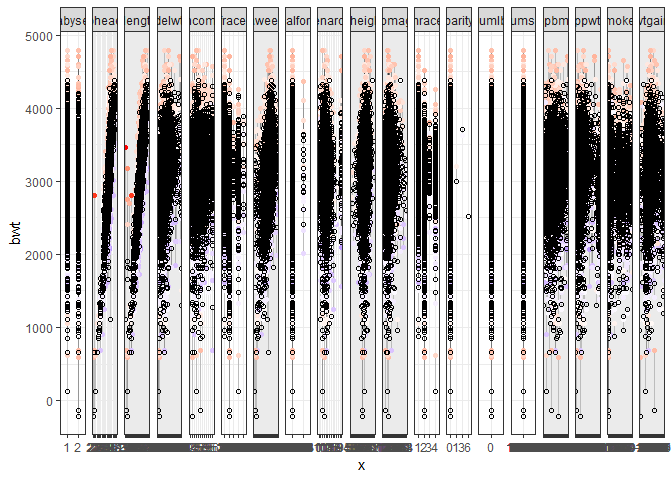
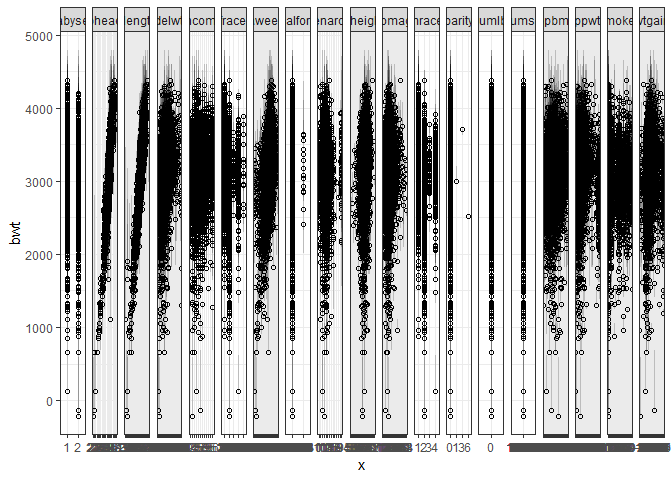
small corrections

diff --git a/Homework6.md b/Homework6.md
@@ -403,9 +403,6 @@ data %>%
   gather(key = name, value = x, -bwt, -pred, -resid) %>%  
   ggplot(aes(x = x, y = bwt)) +  
   geom_segment(aes(xend = x, yend = pred), alpha = .2) +
-  geom_point(aes(color = resid)) +
-  scale_color_gradient2(low = "blue", mid = "white", high = "red") +
-  guides(color = FALSE) +
   geom_point(aes(y = pred), shape = 1) +
   facet_grid(~ name, scales = "free_x") + 
   theme_bw()
@@ -433,16 +430,16 @@ cv_df
     ## # A tibble: 100 x 9
     ##    train    test     .id   mod1  mod2  mod3  rmse_mod1 rmse_mod2 rmse_mod3
     ##    <list>   <list>   <chr> <lis> <lis> <lis>     <dbl>     <dbl>     <dbl>
-    ##  1 <tibble~ <tibble~ 001   <S3:~ <S3:~ <S3:~      288.      360.      308.
-    ##  2 <tibble~ <tibble~ 002   <S3:~ <S3:~ <S3:~      264.      321.      276.
-    ##  3 <tibble~ <tibble~ 003   <S3:~ <S3:~ <S3:~      277.      334.      296.
-    ##  4 <tibble~ <tibble~ 004   <S3:~ <S3:~ <S3:~      264.      328.      282.
-    ##  5 <tibble~ <tibble~ 005   <S3:~ <S3:~ <S3:~      264.      327.      279.
-    ##  6 <tibble~ <tibble~ 006   <S3:~ <S3:~ <S3:~      279.      350.      302.
-    ##  7 <tibble~ <tibble~ 007   <S3:~ <S3:~ <S3:~      264.      319.      282.
-    ##  8 <tibble~ <tibble~ 008   <S3:~ <S3:~ <S3:~      271.      327.      283.
-    ##  9 <tibble~ <tibble~ 009   <S3:~ <S3:~ <S3:~      272.      331.      294.
-    ## 10 <tibble~ <tibble~ 010   <S3:~ <S3:~ <S3:~      283.      345.      301.
+    ##  1 <tibble~ <tibble~ 001   <S3:~ <S3:~ <S3:~      290.      358.      305.
+    ##  2 <tibble~ <tibble~ 002   <S3:~ <S3:~ <S3:~      261.      311.      276.
+    ##  3 <tibble~ <tibble~ 003   <S3:~ <S3:~ <S3:~      267.      315.      285.
+    ##  4 <tibble~ <tibble~ 004   <S3:~ <S3:~ <S3:~      275.      317.      286.
+    ##  5 <tibble~ <tibble~ 005   <S3:~ <S3:~ <S3:~      269.      318.      282.
+    ##  6 <tibble~ <tibble~ 006   <S3:~ <S3:~ <S3:~      272.      325.      285.
+    ##  7 <tibble~ <tibble~ 007   <S3:~ <S3:~ <S3:~      275.      342.      291.
+    ##  8 <tibble~ <tibble~ 008   <S3:~ <S3:~ <S3:~      275.      337.      287.
+    ##  9 <tibble~ <tibble~ 009   <S3:~ <S3:~ <S3:~      270.      335.      285.
+    ## 10 <tibble~ <tibble~ 010   <S3:~ <S3:~ <S3:~      286.      364.      308.
     ## # ... with 90 more rows
 
 ``` r
